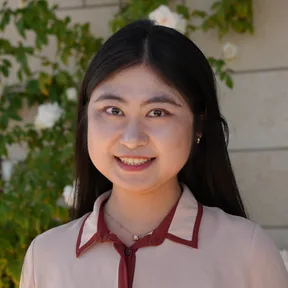
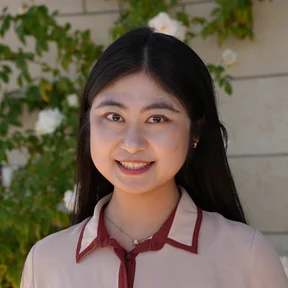
Update profile: Zhe Fu

diff --git a/src/content/people/zhe-fu.md b/src/content/people/zhe-fu.md
@@ -2,13 +2,16 @@
 name: Zhe Fu
 role: Stanford Energy Postdoctoral Fellow
 category: postdoc
-pills: [ml-science-engineering]
+pills: [ml-science-engineering, agentic-ai, ai-for-science]
 photo: /people/zhe-fu.webp
+links:
+  website: https://fu-zhe.com/
+sourceUrl: https://fu-zhe.com/
 placeholder: false
 ---
 
-Zhe is a Stanford Energy Postdoctoral Fellow hosted by Professor Darve and
-Professor Pavone. She received her Ph.D. in Transportation Engineering from
+Zhe is a Stanford Energy Postdoctoral Fellow hosted by Professor Eric Darve and
+Professor Marco Pavone. She received her Ph.D. in Transportation Engineering from
 UC Berkeley.
 
 Her Ph.D. research focused on physics-informed learning and control for
@@ -18,4 +21,4 @@ efficiency. Her work spans the full pipeline, from traffic modeling and
 physics-informed machine learning, to control and optimization, and finally
 to small-scale and large-scale real-world vehicle experiments.
 <!-- Source: Zhe's self-introduction in the lab chat (October 2026), passed
-     on by Kirill. TODO: confirm the pill with Zhe. -->
+     on by Kirill.-->
